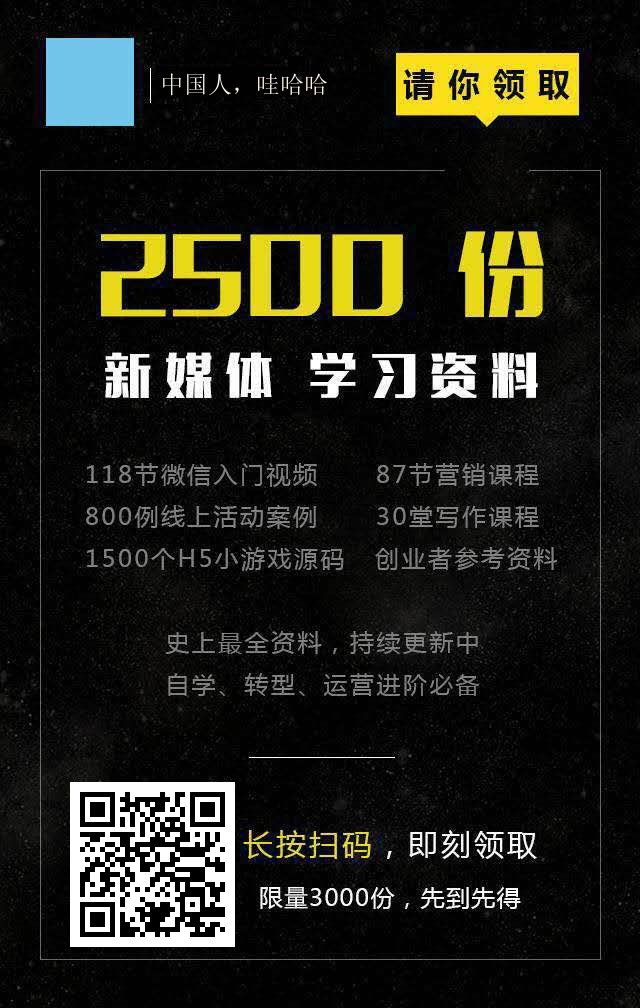
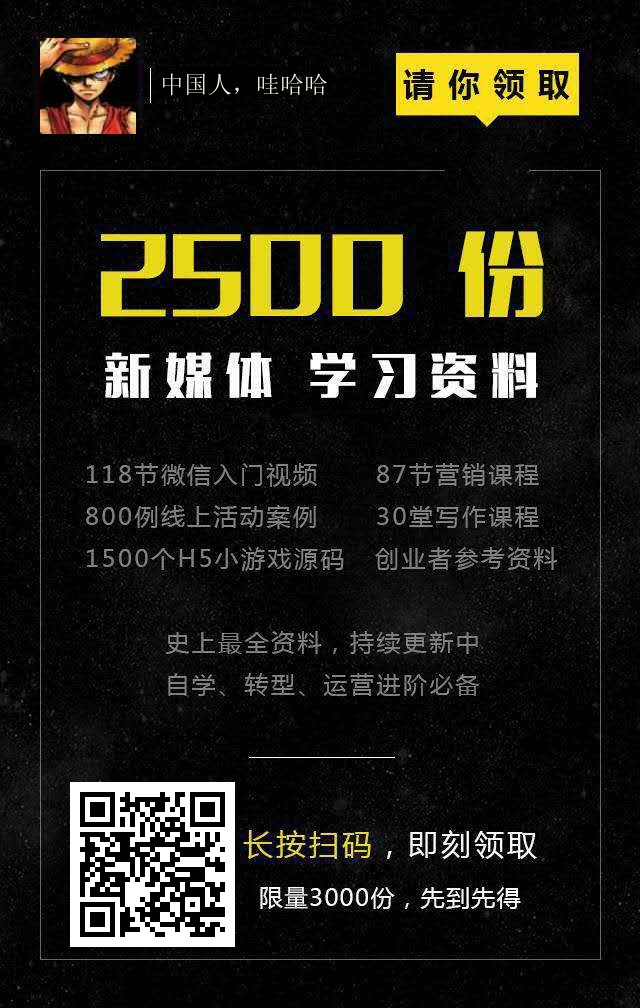
reply img add head img

Changed region(s): [[0.0625, 0.0308, 0.2188, 0.1538], [0.125, 0.8304, 0.2812, 0.9534]]

diff --git a/application/models/Class.php b/application/models/Class.php
@@ -24,18 +24,26 @@ class ClassModel extends Model
         $mWxUser = new WxUserModel($openid);
         $userInfo = $mWxUser->userInfo();
 
+        //头像下载
+        $headImgUrl = rtrim($userInfo->headimgurl, '0') . '96';
+        $ch = curl_init($headImgUrl);
+        $fp = fopen(APP_PATH . '/../public/images/head.png', 'wb');
+        curl_setopt($ch, CURLOPT_FILE, $fp);
+        curl_setopt($ch, CURLOPT_HEADER, 0);
+        curl_exec($ch);
+        curl_close($ch);
+        fclose($fp);
+
         $mQrcode = new QrcodeModel();
         $url = $mQrcode->temporaryUrl(666);
 
-        // Create a basic QR code
+        //QR code
         $qrCode = new QrCode($url);
         $qrCode->setSize(145);
-
-        // Save it to a file
         $qrCode->writeFile(APP_PATH . '/../public/images/qrcode.png');
 
         Image::configure(array('driver' => 'imagick'));
-//        $headImg = Image::make($userInfo->headimgurl)->resize(88, 88);
+        $headImg = Image::make(APP_PATH . '/../public/images/head.png');
         $img = Image::make(APP_PATH . '/../public/images/class.jpeg');
         $img->text($userInfo->nickname, 160, 75, function($font) {
             $font->file(APP_PATH . '/../public/font/simsun.ttf');
@@ -45,7 +53,7 @@ class ClassModel extends Model
             $font->valign('top');
         });
         $img->insert(APP_PATH . '/../public/images/qrcode.png', 'top-left', 70, 782);
-        $img->insert($userInfo->headimgurl, 'top-left', 46, 38)->save(APP_PATH . '/../public/images/test.jpeg');
+        $img->insert($headImg, 'top-left', 40, 38)->save(APP_PATH . '/../public/images/test.jpeg');
     }
 
 }

diff --git a/application/controllers/Message.php b/application/controllers/Message.php
@@ -13,15 +13,22 @@ class MessageController extends Controller {
 
         $mQrcode = new QrcodeModel();
         $url = $mQrcode->temporaryUrl(666);
+        //头像下载
+        $ch = curl_init('http://wx.qlogo.cn/mmopen/ajNVdqHZLLBxCoiavJwicGjlDlDweOicjrHUGibapel0ibtIiciaM1OOCZSZhZVVIgua9lwHdQ6bmasgpXia2oztbFt4LQ/96');
+        $fp = fopen(APP_PATH . '/../public/images/head.png', 'wb');
+        curl_setopt($ch, CURLOPT_FILE, $fp);
+        curl_setopt($ch, CURLOPT_HEADER, 0);
+        curl_exec($ch);
+        curl_close($ch);
+        fclose($fp);
 
-        // Create a basic QR code
+        //QR code
         $qrCode = new QrCode($url);
         $qrCode->setSize(145);
-
-        // Save it to a file
         $qrCode->writeFile(APP_PATH . '/../public/images/qrcode.png');
 
         Image::configure(array('driver' => 'imagick'));
+        $testImg = Image::make(APP_PATH . '/../public/images/head.png');
         $img = Image::make(APP_PATH . '/../public/images/class.jpeg');
         $img->text('中国人，哇哈哈', 160, 75, function($font) {
             $font->file(APP_PATH . '/../public/font/simsun.ttf');
@@ -30,7 +37,8 @@ class MessageController extends Controller {
             $font->align('left');
             $font->valign('top');
         });
-        $img->insert(APP_PATH . '/../public/images/qrcode.png', 'top-left', 70, 782)->save(APP_PATH . '/../public/images/test.jpeg');
+        $img->insert(APP_PATH . '/../public/images/qrcode.png', 'top-left', 70, 782);
+        $img->insert($testImg, 'top-left', 40, 38)->save(APP_PATH . '/../public/images/test.jpeg');
 
     }
 
